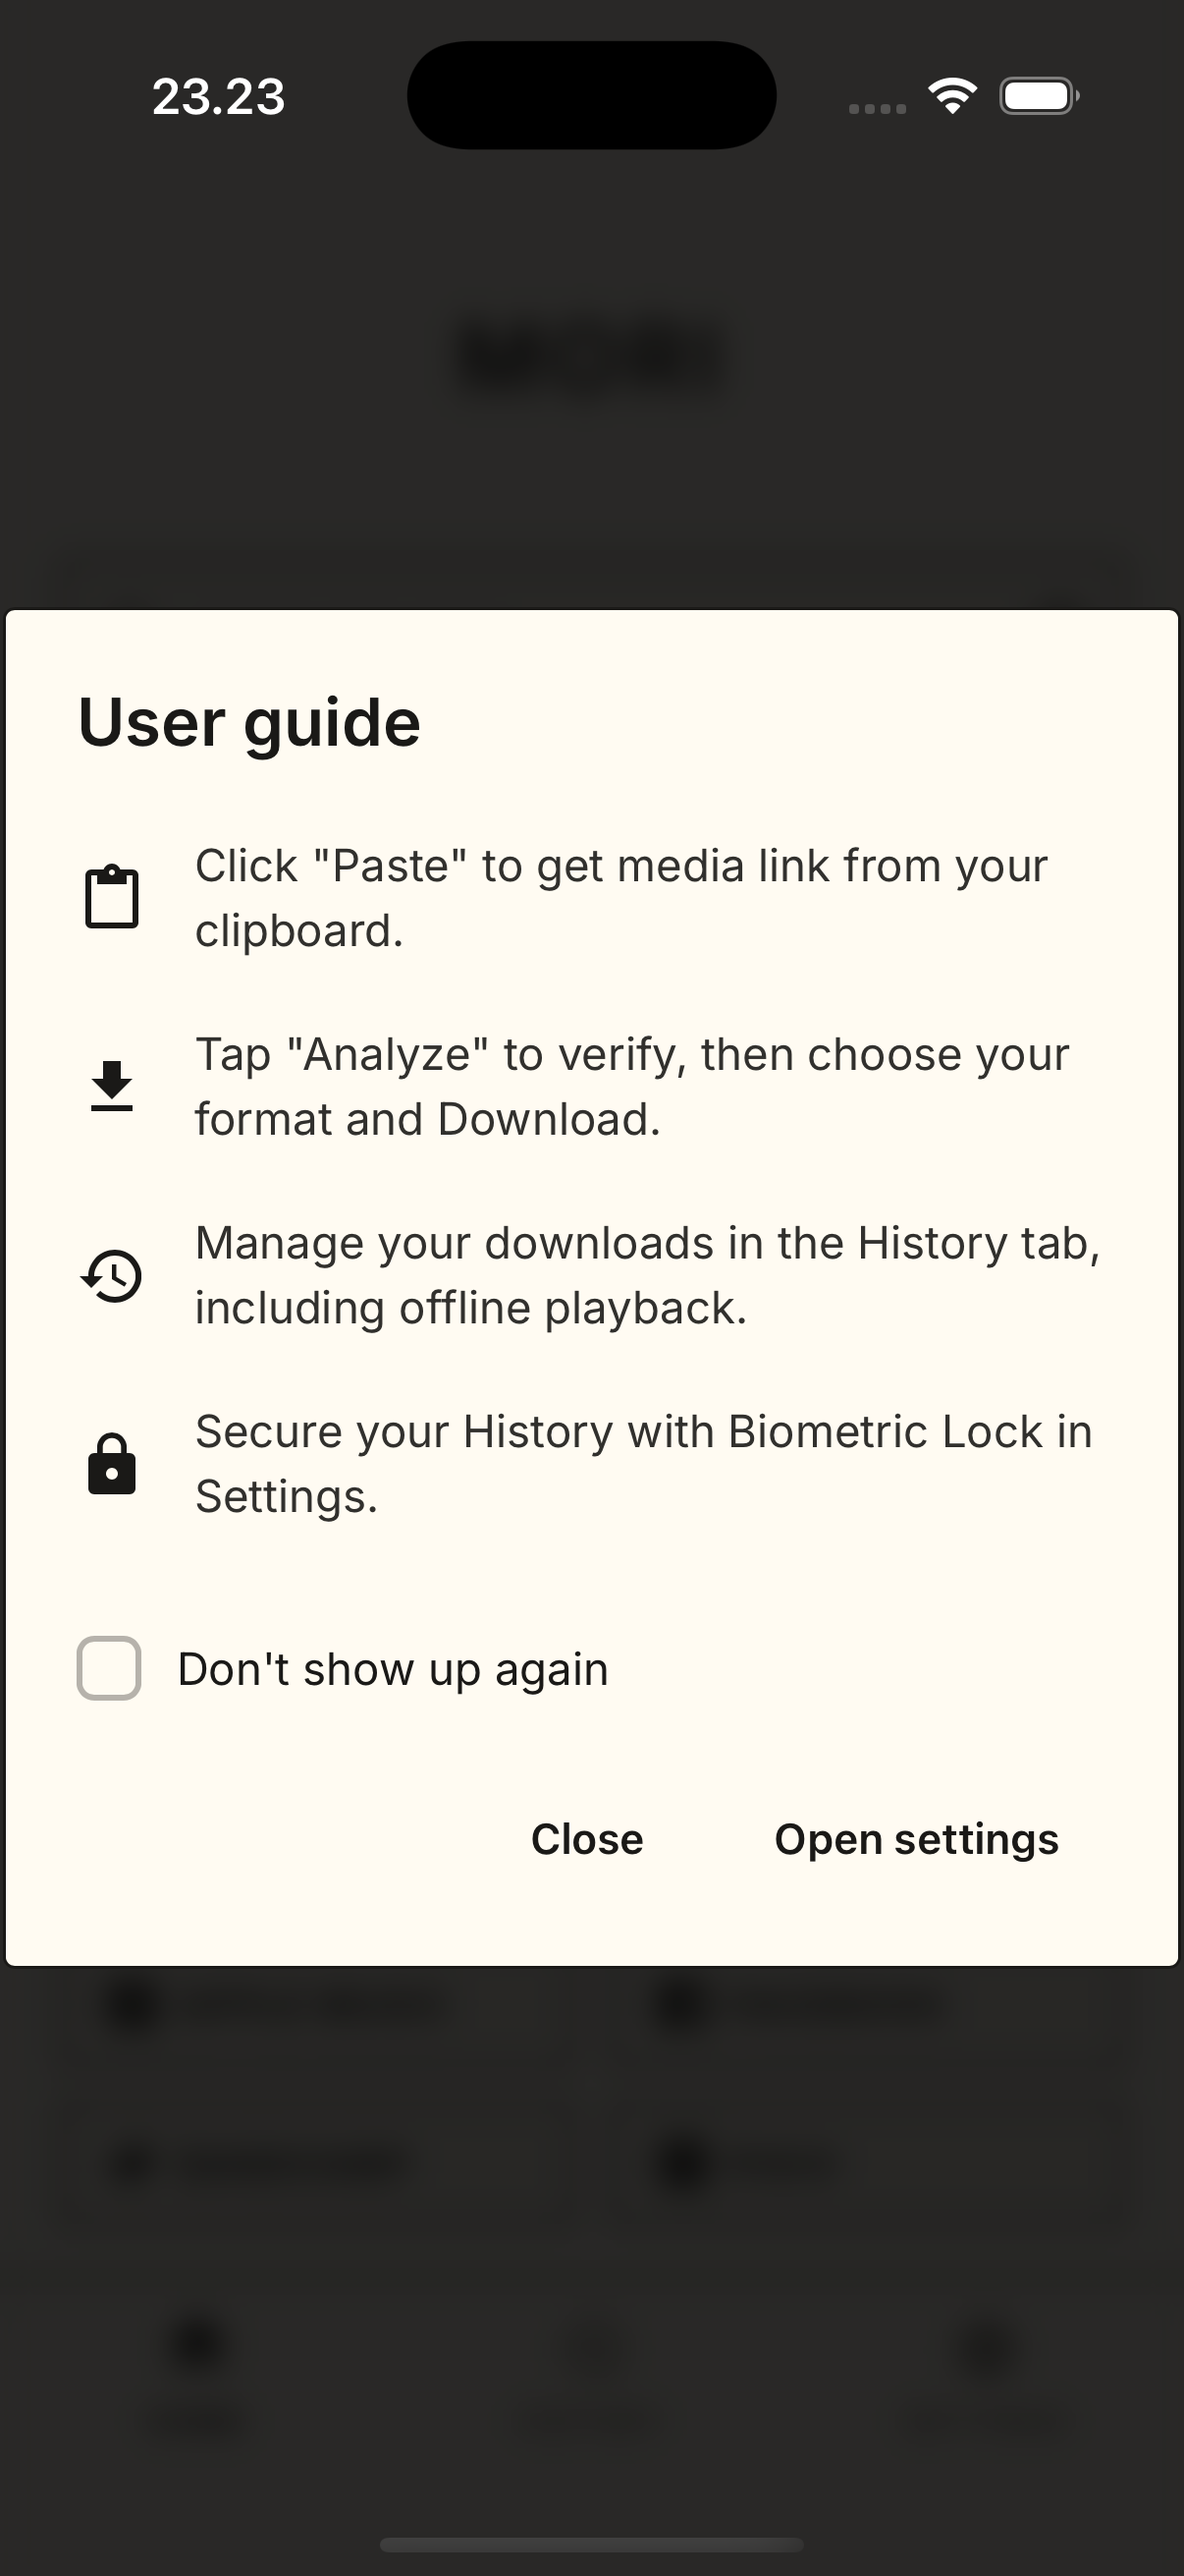
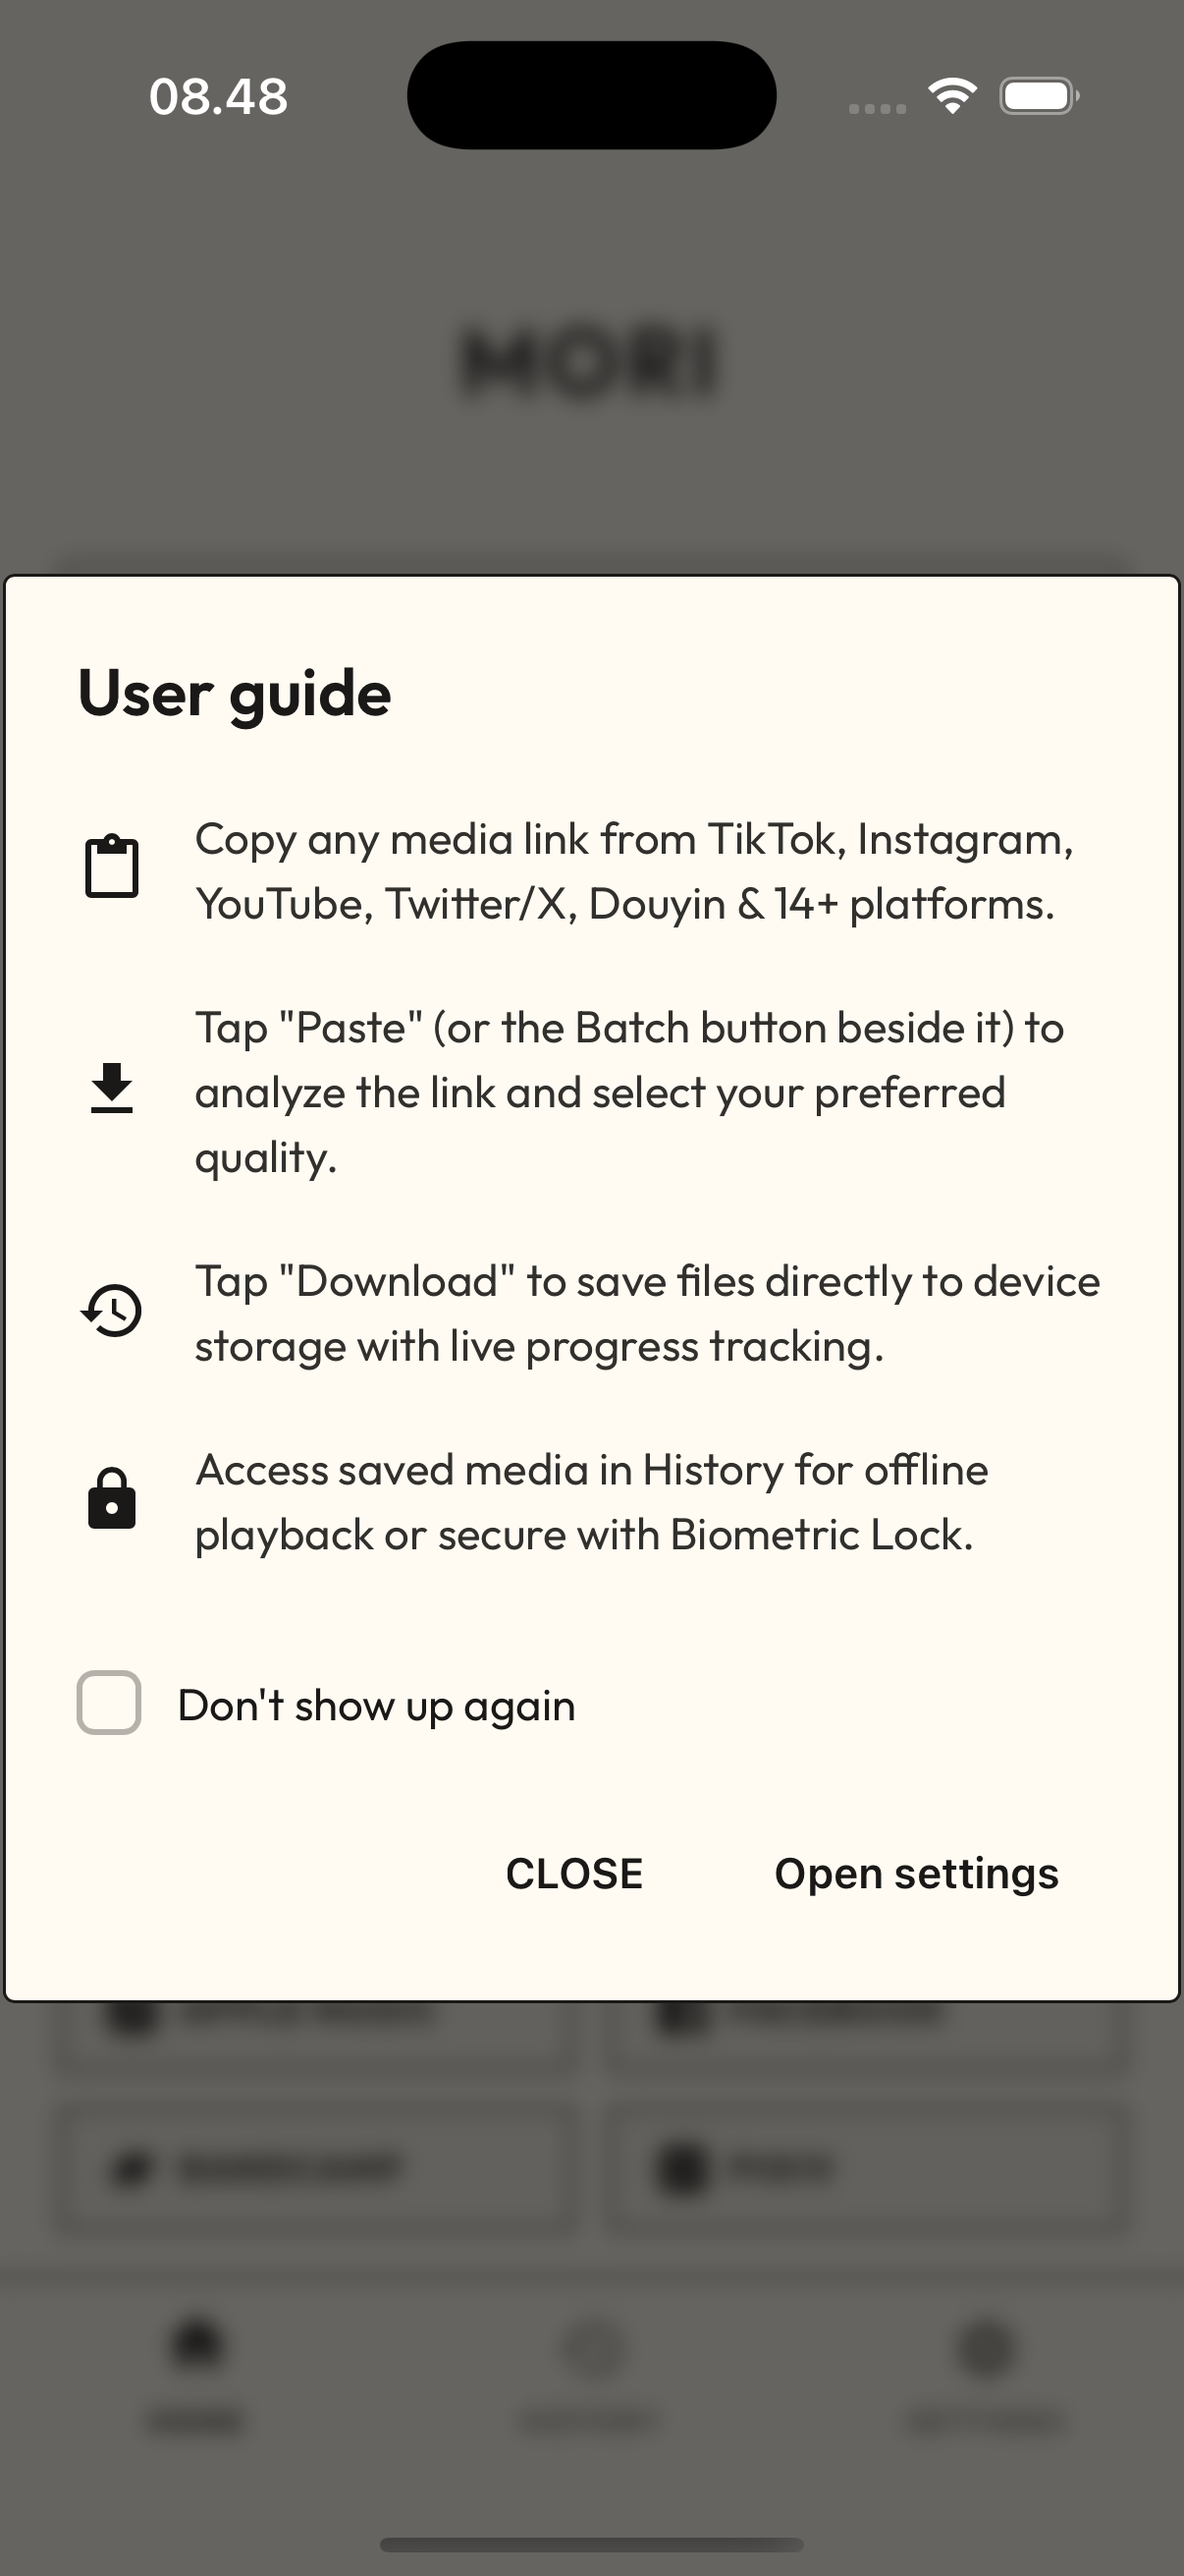
docs: update readme table

diff --git a/README.md b/README.md
@@ -62,17 +62,24 @@ Mori is a fast and simple downloader for saving videos, photos, and music from 1
 - **Spotify Short Link (`/s/`) Support**: Added dynamic resolution for Spotify's newer shortened share links (`open.spotify.com/s/...`). Mori now silently fetches the short link to extract the canonical `og:url` (track, playlist, or album) before passing it to backend APIs.
 - **Douyin Short Link & First-Attempt Resolution Fix**: Resolved an issue where analyzing Douyin short links (`v.douyin.com`) failed on the initial attempt due to missing `window._ROUTER_DATA` SSR markers. Upgraded scraper with a multi-stage resolution pipeline that extracts item IDs, queries the direct `iesdouyin` API endpoint, parses multiple SSR data markers (`_ROUTER_DATA`, `_SSR_DATA`, `_RENDER_DATA`, `__INIT_PROPS__`), and automatically decodes URI-encoded payloads.
 
-## Supported Platforms
+## 🌐 Supported Platforms & Scraper Engines
 
-| Platform                                                                               | Features               | Platform                                                                            | Features                 |
-| :------------------------------------------------------------------------------------- | :--------------------- | :---------------------------------------------------------------------------------- | :----------------------- |
-| <img src="https://cdn.simpleicons.org/tiktok/000000" width="16" /> **TikTok**          | Video (No WM) / Photos | <img src="https://cdn.simpleicons.org/instagram/E4405F" width="16" /> **Instagram** | Reels / Stories / Photos |
-| <img src="https://cdn.simpleicons.org/youtube/FF0000" width="16" /> **YouTube**        | Playlist / MP4 / MP3   | <img src="https://cdn.simpleicons.org/x/000000" width="16" /> **Twitter (X)**       | HD Video / GIFs          |
-| <img src="https://cdn.simpleicons.org/spotify/1DB954" width="16" /> **Spotify**        | Playlist / Album / MP3 | <img src="https://cdn.simpleicons.org/pinterest/E60023" width="16" /> **Pinterest** | PinDown (Video / Images) |
-| <img src="https://cdn.simpleicons.org/applemusic/FA243C" width="16" /> **Apple Music** | Playlist / Album / MP3 | <img src="https://cdn.simpleicons.org/facebook/1877F2" width="16" /> **Facebook**   | Reels / HD Video         |
-| <img src="https://cdn.simpleicons.org/xiaohongshu/FF2442" width="16" /> **RedNote**    | Photos / Videos        | <img src="https://cdn.simpleicons.org/threads/000000" width="16" /> **Threads**     | Video / Photos           |
-| <img src="https://cdn.simpleicons.org/bilibili/00A1D6" width="16" /> **Bilibili**      | Video / Audio (DASH)   | <img src="https://cdn.simpleicons.org/pixiv/0096FA" width="16" /> **Pixiv**         | Gallery / Ugoira to MP4  |
-| <img src="https://cdn.simpleicons.org/tiktok/000000" width="16" /> **Douyin**          | Video (No WM) / Photos | <img src="https://cdn.simpleicons.org/bandcamp/1DA1F2" width="16" /> **Bandcamp**   | Album / MP3 Track        |
+| Platform | Supported Domains / Formats | Features | Scraper Engine / Provider |
+| :--- | :--- | :--- | :--- |
+| <img src="https://cdn.simpleicons.org/instagram/E4405F" width="16" /> **Instagram** | `instagram.com` (`/p/`, `/reel/`, `/stories/`) | Reels / Stories / Photos | **InDown** (`indown.io`) & **SnapSave** (`snapsave.app`) |
+| <img src="https://cdn.simpleicons.org/tiktok/000000" width="16" /> **TikTok** | `tiktok.com`, `vt.tiktok.com` | Video (No WM) / Slide Photos | **SSSTik** (`ssstik.io`) & **TikTokIO** (`tiktokio.com`) |
+| <img src="https://cdn.simpleicons.org/youtube/FF0000" width="16" /> **YouTube** | `youtube.com`, `youtu.be`, `music.youtube.com` | Playlist / Album / MP4 / MP3 | **Ytmp3.gg** (`media.ytmp3.gg`) & **Ytmp3.mobi** (`ytmp3.mobi`) |
+| <img src="https://cdn.simpleicons.org/x/000000" width="16" /> **Twitter (X)** | `twitter.com`, `x.com`, `vxtwitter.com`, `fixupx.com` | HD Video / GIFs | **TwitterVideoDownloader** (`twittervideodownloader.com`) & **Tweeload** (`tweeload.com`) |
+| <img src="https://cdn.simpleicons.org/spotify/1DB954" width="16" /> **Spotify** | `open.spotify.com` (`track`, `album`, `playlist`, `/s/`) | Playlist / Album / MP3 | **SpotiDown** (`spotidown.app`) & **SoundLoaders** (`soundloaders.app`) |
+| <img src="https://cdn.simpleicons.org/applemusic/FA243C" width="16" /> **Apple Music** | `music.apple.com` | Album / Playlist / MP3 Track | **AplMate** (`aplmate.com`) |
+| <img src="https://cdn.simpleicons.org/pinterest/E60023" width="16" /> **Pinterest** | `pinterest.com`, `pin.it` | Video / HD Images | Direct `pinimg.com` Parser & **PinDown** (`pindown.io`) |
+| <img src="https://cdn.simpleicons.org/facebook/1877F2" width="16" /> **Facebook** | `facebook.com`, `fb.watch` | Reels / HD Video | **SnapSave** (`snapsave.app`) |
+| <img src="https://cdn.simpleicons.org/xiaohongshu/FF2442" width="16" /> **RedNote** | `xiaohongshu.com`, `xhslink.com`, `rednote.com` | HD Photos / Videos | Direct `__INITIAL_STATE__` SSR Extractor |
+| <img src="https://cdn.simpleicons.org/threads/000000" width="16" /> **Threads** | `threads.net` | Video / Photo Carousel | **Threadster** (`threadster.app`) |
+| <img src="https://cdn.simpleicons.org/bilibili/00A1D6" width="16" /> **Bilibili** | `bilibili.com`, `b23.tv`, `bili.im`, `bilibili.tv` | Video / Audio (DASH 1080p) | Direct Bilibili Web API (`api.bilibili.com`) & Wbi Resolver |
+| <img src="https://cdn.simpleicons.org/pixiv/0096FA" width="16" /> **Pixiv** | `pixiv.net` (`artworks`) | Gallery / Ugoira to MP4 | Direct Pixiv AJAX API & Ugoira Zip-to-MP4 Converter |
+| <img src="https://cdn.simpleicons.org/tiktok/000000" width="16" /> **Douyin** | `douyin.com`, `v.douyin.com` | Video (No WM) / Photos | Direct `iesdouyin.com` API & Multi-Marker SSR Resolver |
+| <img src="https://cdn.simpleicons.org/bandcamp/1DA1F2" width="16" /> **Bandcamp** | `*.bandcamp.com` | Track / Album / MP3 | **BandcampDownloader** (`bandcampdownloader.app`) |
 
 ## Built With
 
